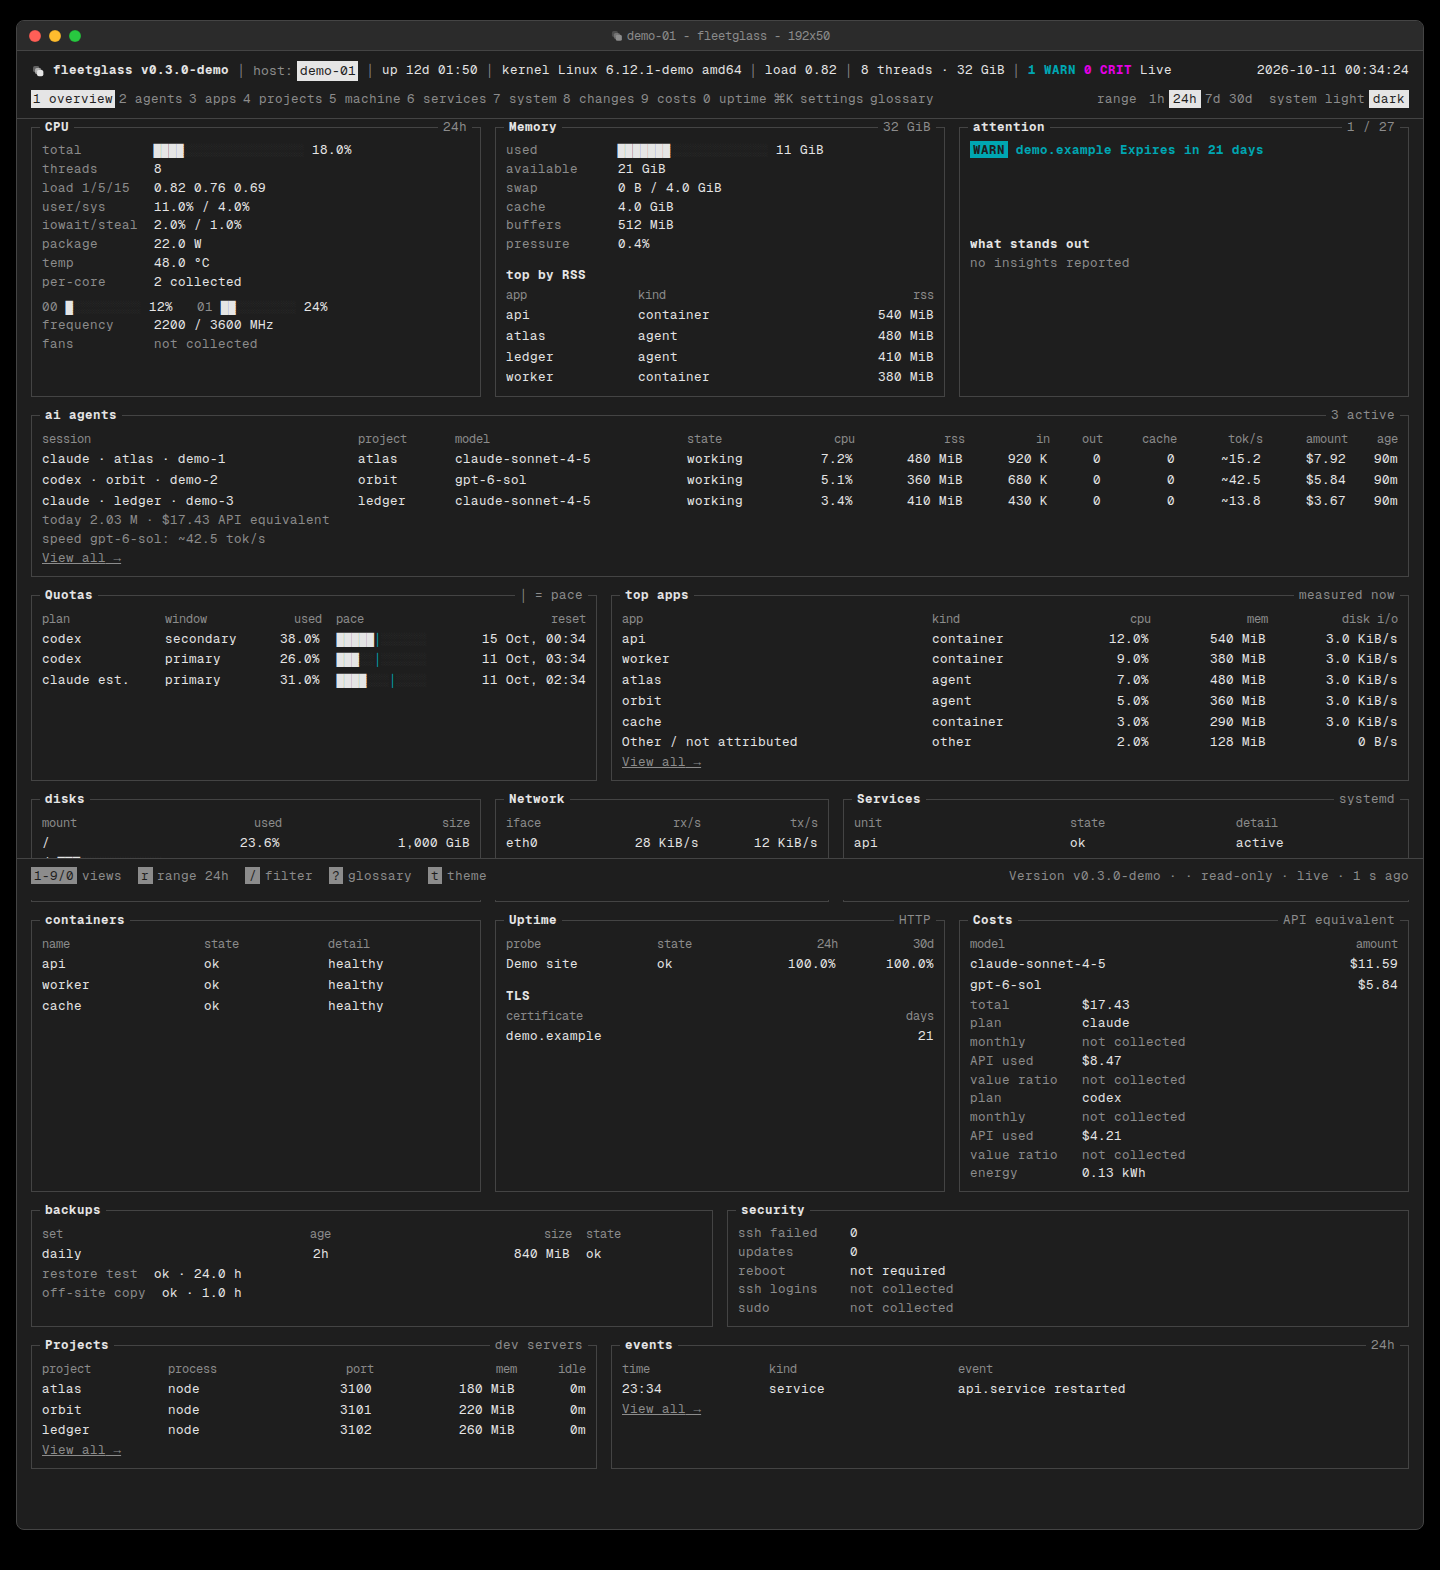
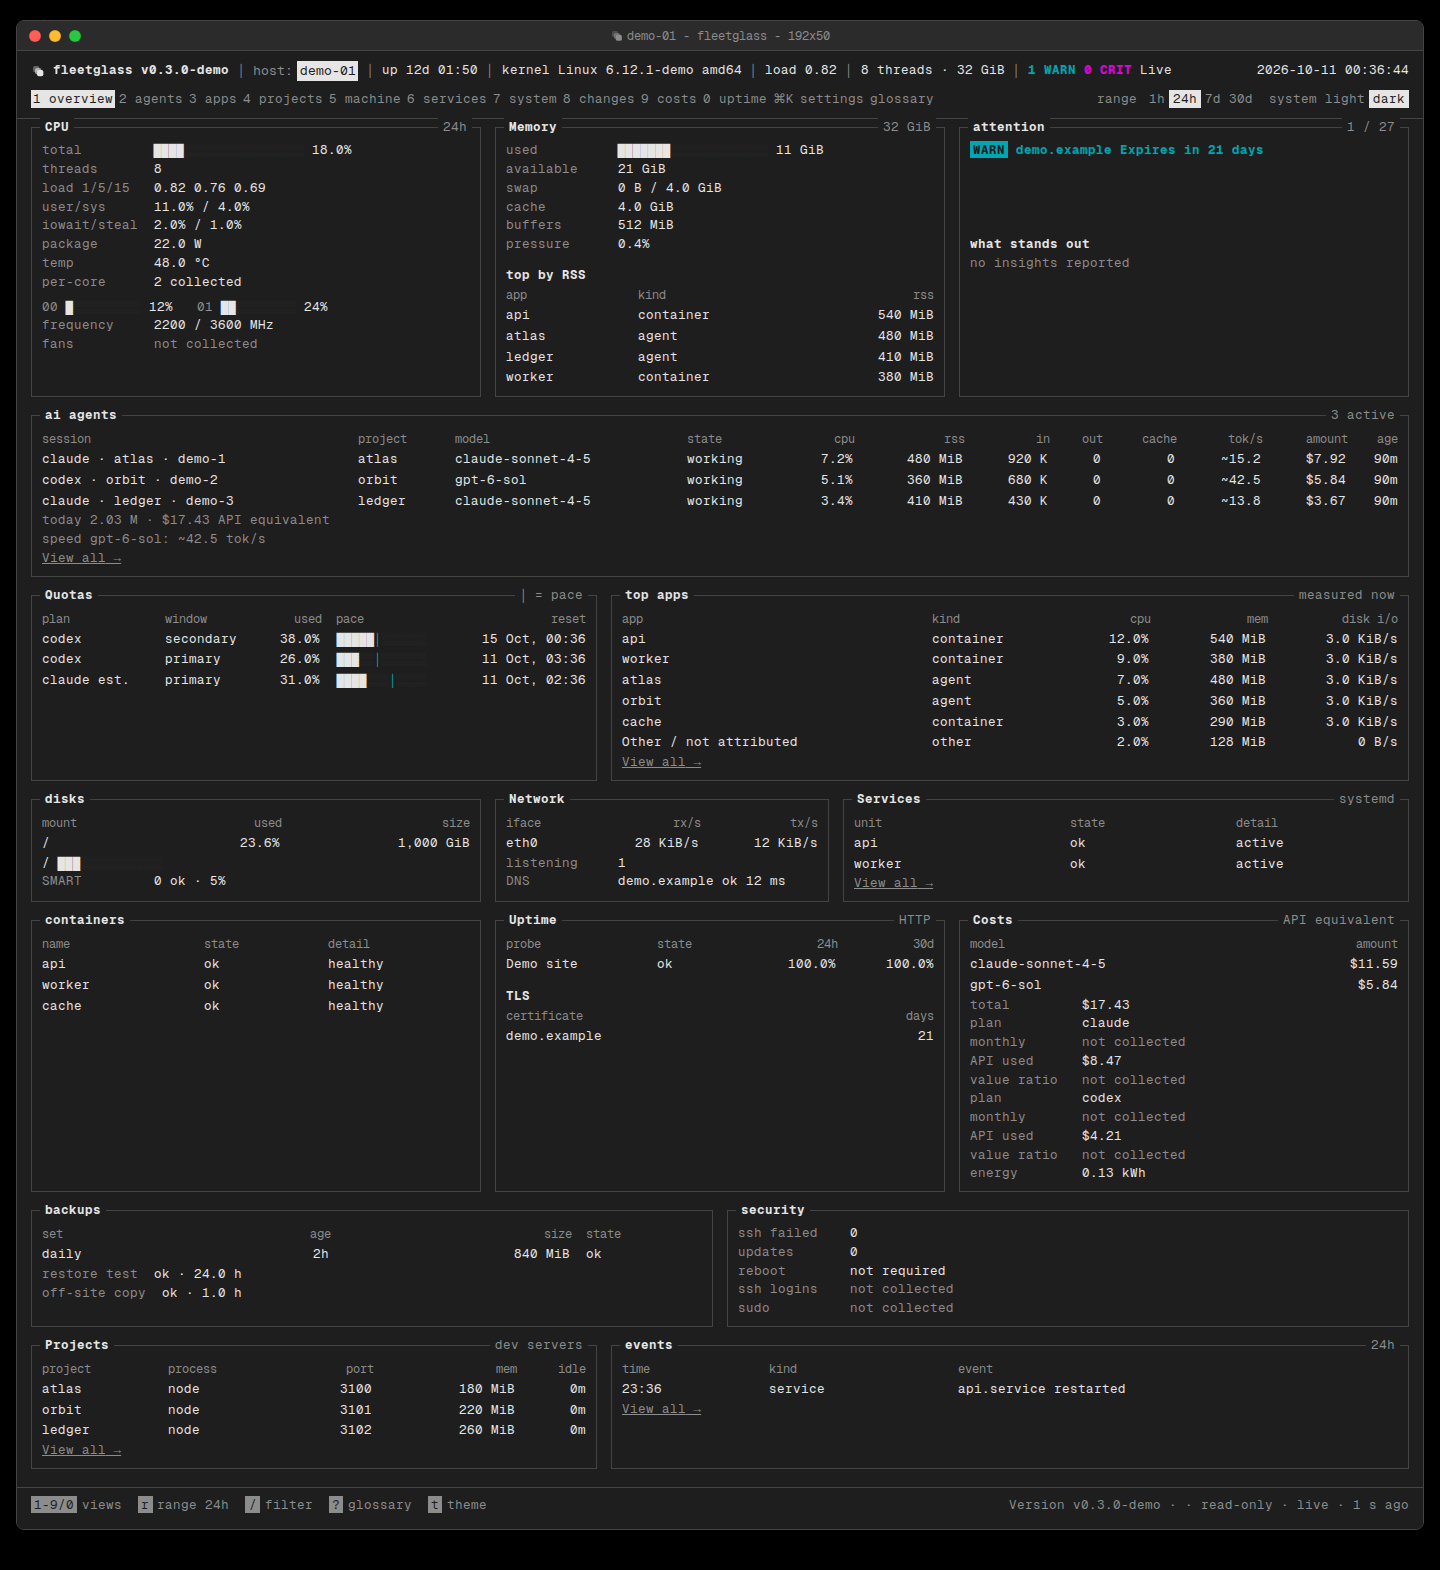
Unpin sticky bars in full-page showcase captures

diff --git a/web/scripts/showcase.py b/web/scripts/showcase.py
@@ -172,6 +172,8 @@ def main():
                 page.goto(base + ("/" if view == "overview" else f"/{view}"), wait_until="networkidle")
                 page.locator("main").wait_for()
                 page.wait_for_timeout(250)
+                # Full-page captures stitch the viewport, so pinned bars would land mid-image.
+                page.add_style_tag(content=".terminal-footer,.terminal-header,.terminal-tabs{position:static!important}")
                 body = page.locator("body").inner_text()
                 if re.search(r"\b(?:internal|oom):[a-z0-9_]+\b", body):
                     raise AssertionError(f"Technical identifier visible in {view}-{theme}-{width}")
